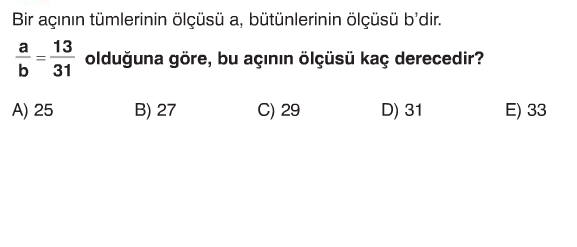
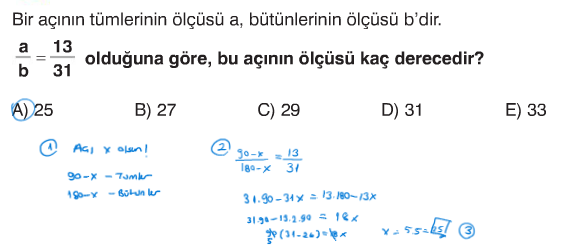
günün sorusu soru analizi olarak başlığa göre ilgili sayfaya bağlandı

diff --git a/src/components/SoruAnalizi.jsx b/src/components/SoruAnalizi.jsx
@@ -2,12 +2,12 @@ import { useState } from "react";
 import SolveOpen from "./SolveOpen";
 
 
-export default function SoruAnalizi({title,image,hints}) {
+export default function SoruAnalizi({title,image,hints,solutionImage}) {
   const [step, setStep] = useState(0);
   const [isSolveOpen,setisSolveOpen]=useState(false);
 
   return (
-   <div className="grid grid-cols-2 bg-amber-300">
+   <div className="grid md:grid-cols-2">
     <div className="max-w-xl mx-auto p-6 pb-10">
       <h2 className="text-2xl font-bold mb-4">
      {title}- Soru Analizi
@@ -42,27 +42,27 @@ export default function SoruAnalizi({title,image,hints}) {
           onClick={() => setStep(1)}
           className="px-4 py-2 bg-mustard-500 text-white rounded"
         >
-          İpucu 1
+          İpucu1
         </button>
 
         <button
           onClick={() => setStep(2)}
           className="px-4 py-2 bg-dark text-white rounded"
         >
-          İpucu 2
+          İpucu2
         </button>
 
         <button
           onClick={() => setStep(3)}
           className="px-4 py-2 bg-olive-500 text-white rounded"
         >
-         ipUcu 3
+         İpucu3
         </button>
     
-        <button onClick={()=>setisSolveOpen(true)}>Tam Çözüm</button>
+        <button  className ="bg-blue-300 px-4 py-2 rounded" onClick={()=>setisSolveOpen(true)}>Tam Çözüm</button>
       </div>   
     </div>
-     {isSolveOpen && <SolveOpen/>}
+     {isSolveOpen && <SolveOpen solutionImage={solutionImage}/>}
     </div>
   );
 }

diff --git a/src/components/GununSorusuModal.jsx b/src/components/GununSorusuModal.jsx
@@ -1,20 +1,20 @@
-import React, { useState } from 'react'
+import React, { useState } from 'react';
+import { Link } from 'react-router-dom';
 import { LiaWindowClose } from "react-icons/lia";
 import SoruAnalizi from './SoruAnalizi';
-const GununSorusuModal = ({onClose,image,hints,title}) => {
-  const [steps,setStep]=useState(0);
+const GununSorusuModal = ({onClose,image,hints,title,solutionImage,topic}) => {
   return (
     <div>
       <div className='fixed inset-0 bg-black/50 flex items-center justify-center'>
          
-         <div className='bg-white max-w-2xl p-8 rounded-2xl flex flex-col gap-4'>
-          {/* <h3>{title}</h3>
-          <img  src={image}/>
-          <p>{hints[steps]}</p>
-            {steps < hints.length -1 && (<button className=" bg-purple-400 self-start rounded p-2" onClick={()=>setStep(steps+1)}>ipuçları</button> )} */}
-            <SoruAnalizi title={title} image={image} hints={hints}/>
-         </div>
+         <div className='bg-white max-w-4xl p-8 rounded-2xl flex flex-col gap-2'>
          
+            <SoruAnalizi  title={title} image={image} solutionImage={solutionImage} hints={hints} topic={topic} />
+             <Link to={`/lise/${topic}`} className="mt-5">
+                Analizi İncele
+              </Link>
+         </div>
+           
           <button className=' border-2 rounded ml-1 bg-olive-500 p-1' onClick={onClose}> <LiaWindowClose /></button>
       </div>
      

diff --git a/src/components/GununSorusuCard.jsx b/src/components/GununSorusuCard.jsx
@@ -2,9 +2,10 @@ import React  from 'react'
 import { FaFireAlt } from "react-icons/fa";
 import gununSorusu from '../data/gununSorusu.js';
 import GununSorusuModal from './GununSorusuModal.jsx';
-import { useState } from "react";
+import { useState} from "react";
+import { Link } from "react-router-dom";
 const GununSorusuCard = ({onClose,isModalOpen}) => {
- const {image,hints,title, description}=gununSorusu
+ const {image,hints,title, description,solutionImage,topic}=gununSorusu
     // !günün sorusu Modal
 
   return (
@@ -22,14 +23,13 @@ const GununSorusuCard = ({onClose,isModalOpen}) => {
 
               <p className="mt-3 text-gray-600">
                {description}
+             
               </p>
-              <button className="mt-5 w-full   text-white py-3 rounded-xl">
-                Analizi İncele
-              </button>
-
+              
+              
             </div>
           </div>
-          {isModalOpen && (<GununSorusuModal title={title} hints={hints} image={image} onClose={onClose}  />)}
+          {isModalOpen && (<GununSorusuModal title={title} hints={hints} image={image} onClose={onClose}  solutionImage={solutionImage} topic={topic}/>)}
        
             
     </div>

diff --git a/src/pages/Ucgenler.jsx b/src/pages/Ucgenler.jsx
@@ -4,8 +4,8 @@ import Ucgen from '../assets/ucgen.png'
 const Ucgenler = () => {
   return(
 <div>
- <SoruAnalizi title="Üçgende Açı" image={Ucgen} hints={[" bu soruda öncelikle ikizkenarın YAKİ kodlamasını hatırla"," açıortay,kenarortay yükseklik ve ikizkenarlık durumlarından iksi varsa diğer ikisini biz yerelştirebiliriz","o zaman alan ve taban eşittir dersek bu sadece alan özelliğidir ve bu ikisi doğru olur,ikizkenar özelliklerinden herhangi ikisi değil!"]}/>
- <SoruAnalizi title="Üçgende Açı" image={Ucgen} hints={[" Bu soruda ilk dikkat edilmesi gereken nokta ;180 derece ile kg arasında doğru orantı kurmak", "180 derece 150 kg ise..?","orantı özülerek sonuç bulunur"]} />
+ <SoruAnalizi title="Üçgende Açı" image={Ucgen} solutionImage={Ucgen} hints={[" bu soruda öncelikle ikizkenarın YAKİ kodlamasını hatırla"," açıortay,kenarortay yükseklik ve ikizkenarlık durumlarından iksi varsa diğer ikisini biz yerelştirebiliriz","o zaman alan ve taban eşittir dersek bu sadece alan özelliğidir ve bu ikisi doğru olur,ikizkenar özelliklerinden herhangi ikisi değil!"]}/>
+
 
     </div>
 

diff --git a/src/pages/DogrudaAci.jsx b/src/pages/DogrudaAci.jsx
@@ -1,10 +1,14 @@
 import React from 'react'
 import SoruAnalizi from '../components/SoruAnalizi'
 import Acı from "../assets/d.Acı9.png";
+import gununSorusu from '../data/gununSorusu';
+
 const DogrudaAci = () => {
+const topic= "dogruda-acilar";
   return (
     <div>
-      <SoruAnalizi title="Doğruda Açılar" image={Acı} hints={[" Bu soruda ilk dikkat edilmesi gereken nokta ;180 derece ile kg arasında doğru orantı kurmak", "180 derece 150 kg ise..?","orantı özülerek sonuç bulunur"]}/>
+      {gununSorusu.topic===topic && <SoruAnalizi title={gununSorusu.title} solutionImage={gununSorusu.solutionImage} hints={gununSorusu.hints} image={gununSorusu.image}/>}
+      <SoruAnalizi title="Doğruda Açılar"  solutionImage={Acı} image={Acı} hints={[" Bu soruda ilk dikkat edilmesi gereken nokta ;180 derece ile kg arasında doğru orantı kurmak", "180 derece 150 kg ise..?","orantı özülerek sonuç bulunur"]}/>
     </div>
   )
 }

diff --git a/src/data/gununSorusu.js b/src/data/gununSorusu.js
@@ -1,15 +1,19 @@
 
-import Aci2 from "../assets/dogrudaAci2.png"
+import Aci2 from "../assets/dogrudaAci2soru.png"
+import aci2Cozum from "../assets/dogrudaAci2.png"
 const gununSorusu ={
     title:"Doğruda Açı ",
     image:Aci2,
     description:"Bu soruda öğrenciler tek değişkene bağlı açıyı yazmak gerektiğini dikkate almıyor",
+    solutionImage: aci2Cozum,
+    topic:"dogruda-acilar",
 
   hints:[
     " açıya alfa diyerek başlarsak,bütünlerinin ölçüsü 180-a..",
     "oranlayıp,içler dışlar çarpımı yap",
     "alfa buradan gelecek."
-]
+],
+ 
 };
 
 export default gununSorusu;

diff --git a/src/components/SolveOpen.jsx b/src/components/SolveOpen.jsx
@@ -1,10 +1,11 @@
 import React from 'react'
 import aciCozum from "../assets/ucgen.png"
-const SolveOpen = () => {
+const SolveOpen = ({solutionImage}) => {
   return (
     <>
+     
     <div className='max-w-xl mx-auto p-6 pb-10'>
-    <img src={aciCozum} alt="aciCozüm görseli"/>
+    <img src={solutionImage} alt="aciCozüm görseli"/>
      </div>  
 
     </>
